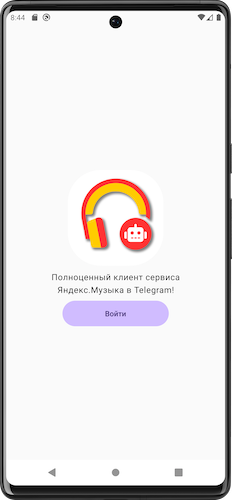
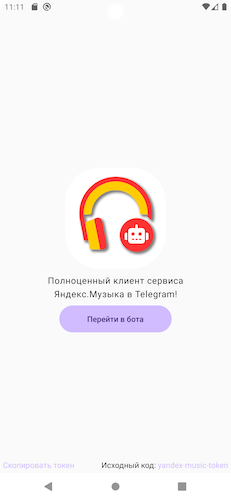
add ability to copy token from android app

Changed region(s): [[0.0, 0.0, 1.0, 1.0], [0.2121, 0.54, 0.7879, 0.69], [0.3333, 0.33, 0.697, 0.51]]

diff --git a/android-app/app/src/main/java/com/rozetka/yandexauth/MainActivity.kt b/android-app/app/src/main/java/com/rozetka/yandexauth/MainActivity.kt
@@ -1,6 +1,8 @@
 package com.rozetka.yandexauth
 
 import android.app.Activity
+import android.content.ClipData
+import android.content.ClipboardManager
 import android.content.Context
 import android.content.Intent
 import android.net.Uri
@@ -9,6 +11,7 @@ import androidx.activity.ComponentActivity
 import androidx.activity.compose.setContent
 import androidx.compose.foundation.Image
 import androidx.compose.foundation.layout.*
+import androidx.compose.foundation.text.ClickableText
 import androidx.compose.material3.AlertDialog
 import androidx.compose.material3.Button
 import androidx.compose.material3.MaterialTheme
@@ -18,7 +21,10 @@ import androidx.compose.ui.Alignment
 import androidx.compose.ui.Modifier
 import androidx.compose.ui.platform.LocalContext
 import androidx.compose.ui.res.painterResource
+import androidx.compose.ui.text.SpanStyle
+import androidx.compose.ui.text.buildAnnotatedString
 import androidx.compose.ui.text.style.TextAlign
+import androidx.compose.ui.text.withStyle
 import androidx.compose.ui.unit.dp
 import androidx.core.app.ActivityCompat
 import androidx.core.view.WindowCompat
@@ -30,9 +36,11 @@ import com.yandex.authsdk.YandexAuthSdk
 
 const val REQUEST_LOGIN_SDK = 1337
 const val BOT_DEEP_LINK = "https://t.me/music_yandex_bot?start="
+const val SOURCE_CODE_LINK = "https://github.com/MarshalX/yandex-music-token"
 
 class MainActivity : ComponentActivity() {
     private var showErrorDialog: MutableState<Boolean> = mutableStateOf(false)
+    private val token: MutableState<String> = mutableStateOf("")
 
     private lateinit var sdk: YandexAuthSdk
     private lateinit var _context: Context
@@ -42,7 +50,7 @@ class MainActivity : ComponentActivity() {
             try {
                 val yandexAuthToken = sdk.extractToken(resultCode, data)
                 yandexAuthToken?.let {
-                    openUriInBrowser("$BOT_DEEP_LINK${it.value}", _context)
+                    token.value = it.value
                 }
 
             } catch (_: YandexAuthException) {
@@ -57,6 +65,13 @@ class MainActivity : ComponentActivity() {
         val uri = Uri.parse(uriString)
         val intent = Intent(Intent.ACTION_VIEW, uri)
         context.startActivity(intent)
+    }
+
+    private fun copyToken(context: Context) {
+        val clipboardManager =
+            context.getSystemService(Context.CLIPBOARD_SERVICE) as ClipboardManager
+        val clip = ClipData.newPlainText("token", token.value)
+        clipboardManager.setPrimaryClip(clip)
     }
 
     @Composable
@@ -102,7 +117,7 @@ class MainActivity : ComponentActivity() {
                         if (showErrorDialog.value) {
                             ShowAlertDialog(
                                 "Ошибка",
-                                "Авторизация не удалась",
+                                "Не удалось авторизоваться",
                                 fun() { showErrorDialog.value = false })
                         }
 
@@ -124,23 +139,86 @@ class MainActivity : ComponentActivity() {
                             textAlign = TextAlign.Center
                         )
 
-                        Button(
-                            onClick = {
-                                ActivityCompat.startActivityForResult(
-                                    this@MainActivity as Activity,
-                                    sdk.createLoginIntent(YandexAuthLoginOptions.Builder().build()),
-                                    REQUEST_LOGIN_SDK,
-                                    null
-                                )
-                            },
-                            Modifier
-                                .padding(vertical = 10.dp)
-                                .align(Alignment.CenterHorizontally)
-                                .height(48.dp)
-                                .width(200.dp)
-                        ) {
-                            Text(text = "Войти")
+                        if (token.value == "") {
+                            Button(
+                                onClick = {
+                                    ActivityCompat.startActivityForResult(
+                                        this@MainActivity as Activity,
+                                        sdk.createLoginIntent(
+                                            YandexAuthLoginOptions.Builder().build()
+                                        ),
+                                        REQUEST_LOGIN_SDK,
+                                        null
+                                    )
+                                },
+                                Modifier
+                                    .padding(vertical = 10.dp)
+                                    .align(Alignment.CenterHorizontally)
+                                    .height(48.dp)
+                                    .width(200.dp)
+                            ) {
+                                Text(text = "Авторизоваться")
+                            }
+                        } else {
+                            Button(
+                                onClick = {
+                                    openUriInBrowser("$BOT_DEEP_LINK${token.value}", _context)
+                                },
+                                Modifier
+                                    .padding(vertical = 10.dp)
+                                    .align(Alignment.CenterHorizontally)
+                                    .height(48.dp)
+                                    .width(200.dp)
+                            ) {
+                                Text(text = "Перейти в бота")
+                            }
                         }
+                    }
+                }
+                Box(
+                    Modifier
+                        .fillMaxSize()
+                        .padding(horizontal = 5.dp)
+                        .padding(vertical = 5.dp)) {
+                    if (token.value != "") {
+                        Column(
+                            Modifier
+                                .align(Alignment.BottomStart)
+                                .fillMaxWidth()
+                                .navigationBarsPadding()
+                        ) {
+                            val copyTokenString = buildAnnotatedString {
+                                withStyle(style = SpanStyle(color = MaterialTheme.colorScheme.primary)) {
+                                    append("Скопировать токен")
+                                }
+                            }
+
+                            ClickableText(
+                                text = copyTokenString,
+                                onClick = { copyToken(context = _context) },
+                            )
+
+                        }
+                    }
+                    Column(
+                        Modifier
+                            .align(Alignment.BottomEnd)
+                            .fillMaxWidth()
+                            .navigationBarsPadding()
+                    ) {
+                        val sourceCodeString = buildAnnotatedString {
+                            append("Исходный код: ")
+
+                            withStyle(style = SpanStyle(color = MaterialTheme.colorScheme.primary)) {
+                                append("yandex-music-token")
+                            }
+                        }
+
+                        ClickableText(
+                            text = sourceCodeString,
+                            onClick = { openUriInBrowser(SOURCE_CODE_LINK, _context) },
+                            modifier = Modifier.align(Alignment.End)
+                        )
                     }
                 }
             }
